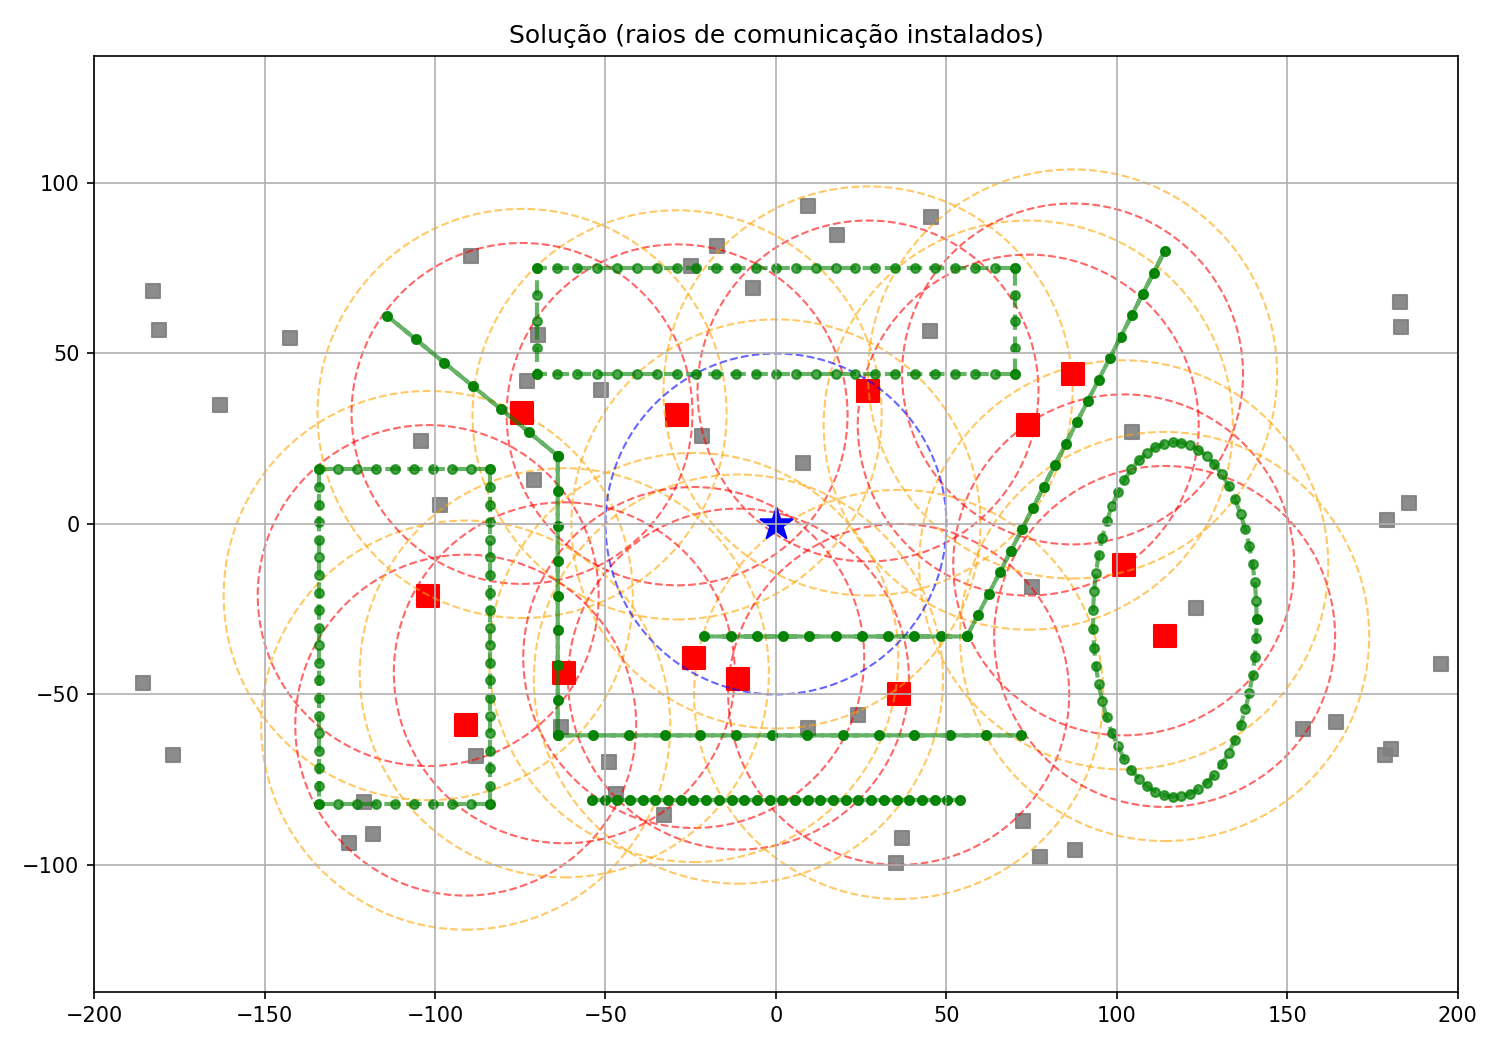
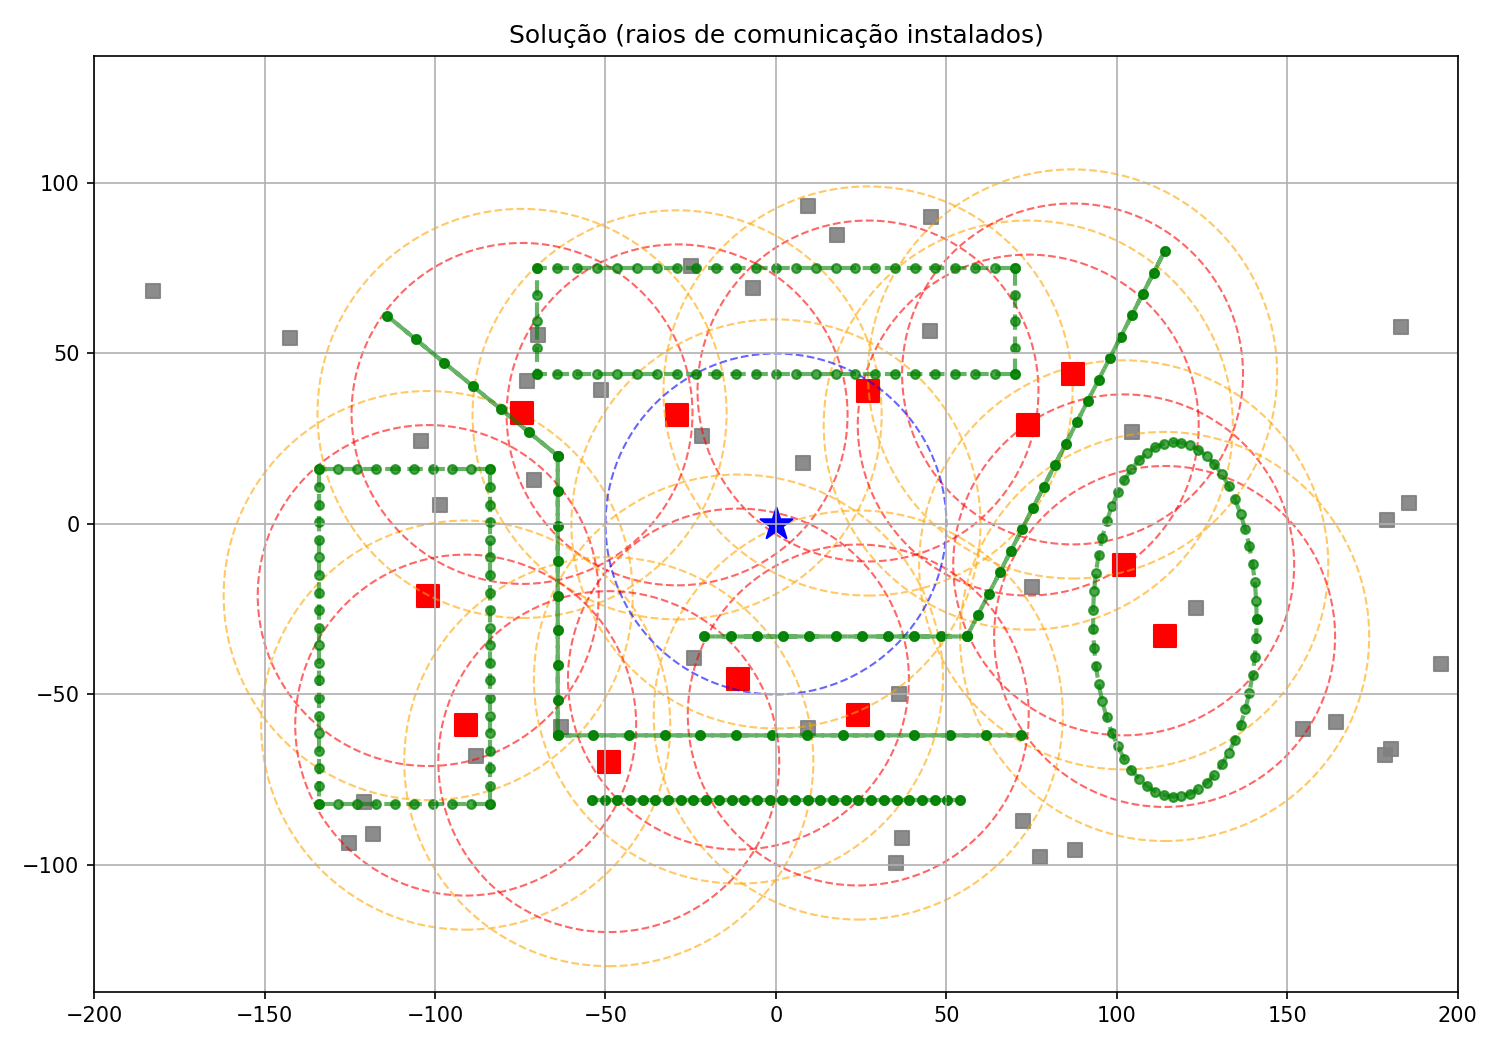
update: adjustments

diff --git a/wsn-basic/model1.py b/wsn-basic/model1.py
@@ -1,4 +1,5 @@
 import numpy as np
+import json
 
 # bibliotecas locais
 from utils.sim_utils import load_simulation_json
@@ -29,7 +30,7 @@ sim = load_simulation_json(SIM_JSON_PATH)
 
 # 2) Adiciona fixos aleatórios (opcional)
 if ADD_RANDOM:
-    sim = add_random_fixed_motes(sim, n_new=50, seed=71)
+    sim = add_random_fixed_motes(sim, n_new=40, seed=71)
 
 # ==============================
 # Construção dos conjuntos/posições a partir do JSON
@@ -51,7 +52,7 @@ mobile_list = sim["simulationElements"]["mobileMotes"]
 #parâmetros do modelo
 cap0 = 10
 kdecay = 0.1
-alpha_yx = 1000
+alpha_yx = 1000**2
 
 # sink
 sink_name = None
@@ -124,7 +125,7 @@ def capacity(pi, pj):
 def link_cost(pi, pj):
     # ajustar depois
     d = np.linalg.norm(pi - pj)
-    return d
+    return d**2
 
 E_t = {}
 A = {}
@@ -254,6 +255,28 @@ installed = [j for j, v in y_val.items() if v > 0.5]
 x_val = {(i, j, t): xvar[(i, j, t)].X for t in range(1, T + 1) for (i, j) in E_t[t]}
 z_val = {(i, j, t): z[(i, j, t)].X for t in range(1, T + 1) for (i, j) in E_t[t]}
 
+fixed_motes_out = []                 
+fixed_motes_out.append({
+    "position": [0.0, 0.0],
+    "name": "root",
+    "sourceCode": "node.c"
+})
+count = 1
+for j in installed:
+    pos = q_fixed[j]                 
+    name = j[1]                     
+    fixed_motes_out.append({
+        "position": [float(pos[0]), float(pos[1])],
+        "name": f"node{count}",
+        "sourceCode": "node.c"
+    })
+    count+=1
+
+sim["simulationElements"]["fixedMotes"] = fixed_motes_out
+
+with open("./results/model1/output.json", "w", encoding="utf-8") as f:
+    json.dump(sim, f, ensure_ascii=False, indent=4)
+    
 plot_solution(
     F=F, installed=installed, q_fixed=q_fixed, q_sink=q_sink, R_comm=R_comm, R_inter=R_interf,
     mob_names=mob_names, T=T, r_mobile=r_mobile, 

diff --git a/wsn-basic/model2.py b/wsn-basic/model2.py
@@ -51,7 +51,7 @@ mobile_list = sim["simulationElements"]["mobileMotes"]
 # parâmetros do modelo
 cap0 = 10
 kdecay = 0.1
-alpha_yx = 1000.0
+alpha_yx = 1000.0**2
 alpha_interf = 1000.0
 
 # sink
@@ -147,7 +147,7 @@ def capacity(pi, pj):
 def link_cost(pi, pj):
     # dtilde_{ij}(t) = lambda_x * ||pi - pj||
     d = np.linalg.norm(pi - pj)
-    return d
+    return d**2
 
 E_t = {}
 A = {}

diff --git a/README.md b/README.md
@@ -25,7 +25,7 @@ $$
 & \alpha_{yx}\sum_{j\in\mathcal J} y_j
 + \sum_{t\in\mathcal T}
   \sum_{(i,j)\in \mathcal E_t}
-  d_{ij}(t) x_{ij}(t)
+  d_{ij}^2(t) x_{ij}(t)
 \\[0.4em]
 \text{s.a.}\quad
 & z_{ij}(t)\le A_{ij}(t),
@@ -57,7 +57,7 @@ $$
 
 ---
 
-# Incluindo Interferência
+# Incluindo Interferência Custo Local
 
 ## Pré-processamento
 
@@ -76,7 +76,7 @@ $$
 & \alpha_{yx}\sum_{j\in\mathcal J} (\alpha_{\text{inter}} \eta_j+1)y_j
 + \sum_{t\in\mathcal T}
   \sum_{(i,j)\in \mathcal E_t}
-  d_{ij}(t) x_{ij}(t)
+  d_{ij}^2(t) x_{ij}(t)
 \\[0.4em]
 \text{s.a.}\quad
 & z_{ij}(t)\le A_{ij}(t),
@@ -107,3 +107,53 @@ $$
 $$
 
 ---
+
+# Incluindo Interferência Grafo de Conflitos
+
+## Pré-processamento
+
+$$
+I_{(i,j),(k,l)}(t) =
+\begin{cases}
+1, & \text{se } (i,j)\neq(k,l)\ \text{e}\ 
+\min\{\|p_i(t)-p_k(t)\|_2,\|p_j(t)-p_l(t)\|_2\}<R_\text{inter},\\[0.25em]
+0, & \text{caso contrário.}
+\end{cases}
+$$
+
+## Modelo 3
+$$
+\begin{aligned}
+\min_{y,z,x}\quad
+& \alpha_{yx}\sum_{j\in\mathcal J} (\alpha_{\text{inter}} \eta_j+1)y_j
++ \sum_{t\in\mathcal T}
+  \sum_{(i,j)\in \mathcal E_t}
+  d_{ij}^2(t) x_{ij}(t)
+\\[0.4em]
+\text{s.a.}\quad
+& z_{ij}(t)\le A_{ij}(t),
+&& \forall (i,j)\in\mathcal E_t,\ \forall t,
+\\[0.25em]
+& z_{ij}(t)\le y_i,\quad z_{ij}(t)\le y_j,
+&& \forall (i,j)\in\mathcal E_t,\ i,j\in\mathcal J,\ \forall t,
+\\[0.25em]
+& 0\le x_{ij}(t)\le C_{ij}(t)\,z_{ij}(t),
+&& \forall (i,j)\in\mathcal E_t,\ \forall t,
+\\[0.25em]
+& \sum_{j:(m,j)\in \mathcal E_t} x_{mj}(t)
+  - \sum_{i:(i,m)\in \mathcal E_t} x_{im}(t)
+  = b_{m,t},
+&& \forall m\in\mathcal M,\ \forall t,
+\\[0.25em]
+& \sum_{j:(i,j)\in \mathcal E_t} x_{ij}(t)
+  - \sum_{k:(k,i)\in \mathcal E_t} x_{ki}(t)
+  = 0,
+&& \forall i\in\mathcal J,\ \forall t,
+\\[0.25em]
+& \sum_{i:(i,s)\in \mathcal E_t} x_{i s}(t)
+  = \sum_{m\in\mathcal M} b_{m,t},
+&& \forall t,
+\\[0.25em]
+& y_j\in\{0,1\},\quad z_{ij}(t)\in\{0,1\},\quad x_{ij}(t)\ge 0.
+\end{aligned}
+$$
